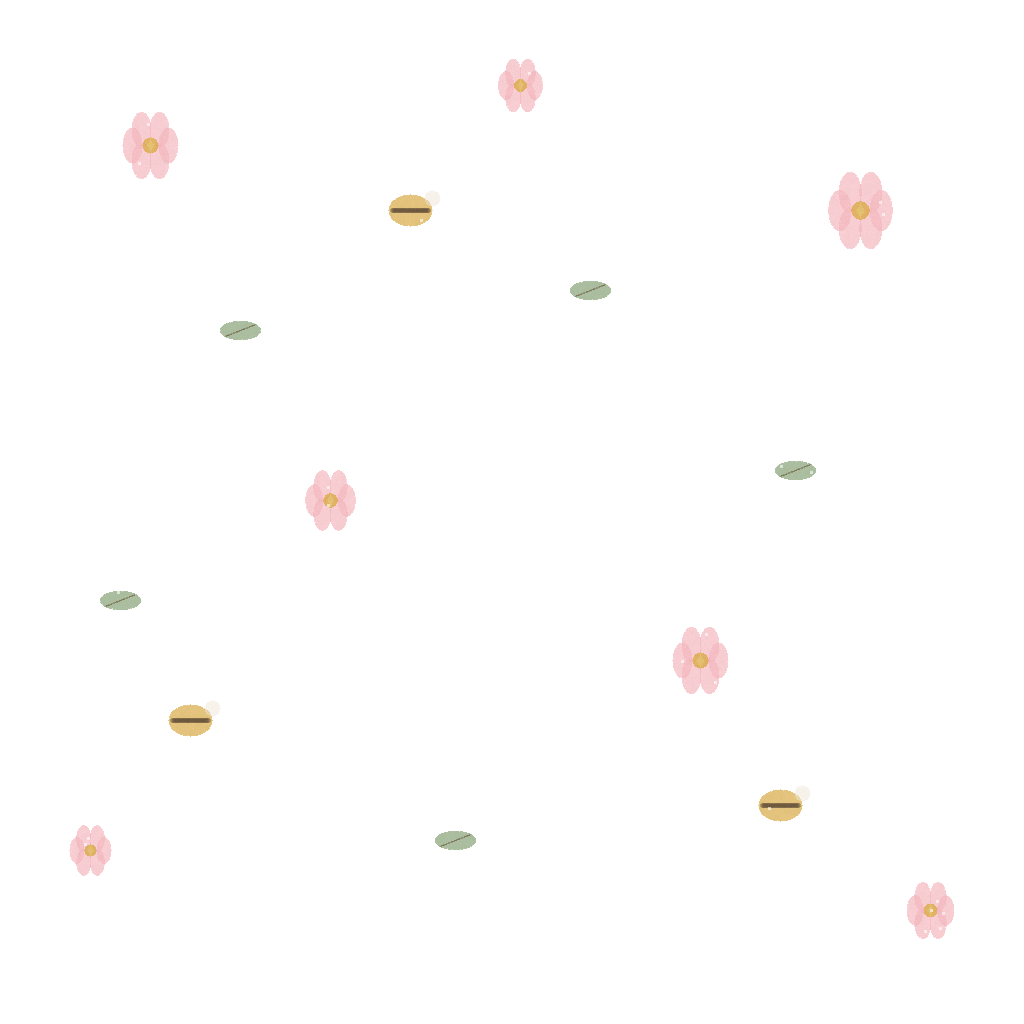
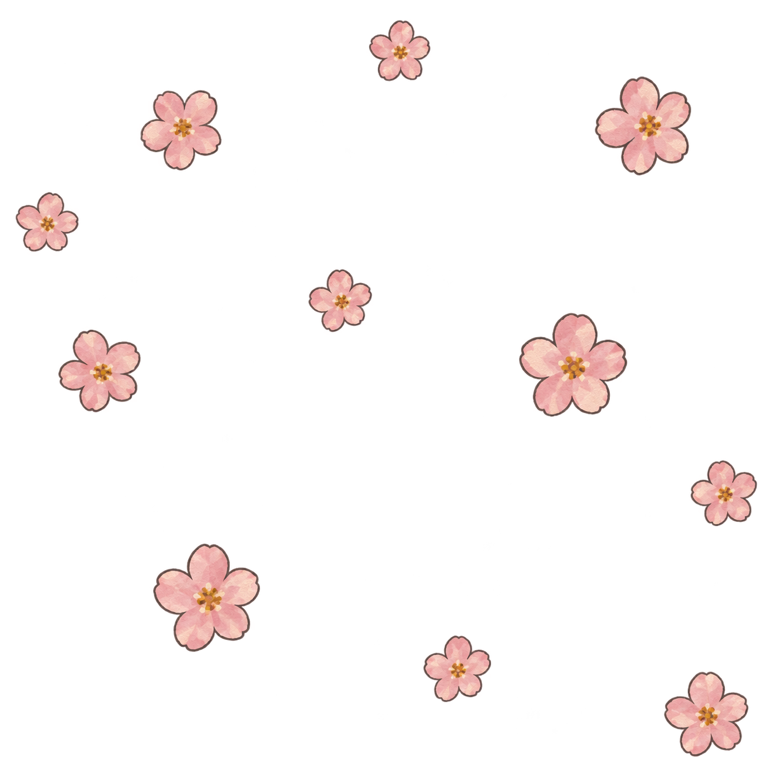
Refactor code structure for improved readability and maintainability

diff --git a/scripts/generate-owned-assets.js b/scripts/generate-owned-assets.js
@@ -895,7 +895,7 @@ function leafShape(png, x, y, scale, color) {
 }
 
 function pattern(file, draw) {
-  const png = canvas(1024, 1024);
+  const png = canvas(768, 768);
   draw(png);
   applyHandmadeTexture(png, {
     salt: file.length * 59,
@@ -907,68 +907,142 @@ function pattern(file, draw) {
   save(png, `assets/patterns/${file}.png`);
 }
 
+function patternPositions(width, height) {
+  return [
+    [-34, 82, 0.78, -0.2],
+    [154, 132, 1.05, 0.12],
+    [382, 58, 0.72, -0.36],
+    [624, 116, 0.95, 0.26],
+    [792, 210, 0.8, -0.14],
+    [76, 342, 0.9, 0.34],
+    [305, 292, 0.68, -0.18],
+    [540, 356, 1.12, 0.08],
+    [708, 470, 0.74, -0.32],
+    [184, 596, 1, 0.22],
+    [430, 650, 0.84, -0.26],
+    [688, 704, 0.9, 0.16],
+    [-18, 724, 0.76, 0.1],
+  ].map(([x, y, scale, tilt]) => [x % width, y % height, scale, tilt]);
+}
+
+function drawPatternSun(png, x, y, scale, tilt = 0) {
+  const rayColor = rgba('#E3A23F', 118);
+  const bodyColor = rgba('#F2C767', 128);
+  const shadeColor = rgba('#C98245', 68);
+  for (let i = 0; i < 10; i += 1) {
+    const a = (Math.PI * 2 * i) / 10 + tilt;
+    line(
+      png,
+      x + Math.cos(a) * 28 * scale,
+      y + Math.sin(a) * 28 * scale,
+      x + Math.cos(a) * 43 * scale,
+      y + Math.sin(a) * 43 * scale,
+      5 * scale,
+      rayColor,
+    );
+  }
+  circle(png, x, y, 25 * scale, bodyColor);
+  polygon(
+    png,
+    [
+      [x - 14 * scale, y - 18 * scale],
+      [x + 22 * scale, y - 10 * scale],
+      [x + 8 * scale, y + 20 * scale],
+      [x - 22 * scale, y + 12 * scale],
+    ],
+    shadeColor,
+  );
+}
+
+function drawPatternSnowflake(png, x, y, scale, tilt = 0) {
+  const snow = rgba('#C2D8E0', 132);
+  const cream = rgba('#FFF8E9', 90);
+  for (let i = 0; i < 6; i += 1) {
+    const a = (Math.PI * 2 * i) / 6 + tilt;
+    const x1 = x - Math.cos(a) * 30 * scale;
+    const y1 = y - Math.sin(a) * 30 * scale;
+    const x2 = x + Math.cos(a) * 30 * scale;
+    const y2 = y + Math.sin(a) * 30 * scale;
+    line(png, x1, y1, x2, y2, 3 * scale, snow);
+    line(
+      png,
+      x2,
+      y2,
+      x2 - Math.cos(a + 0.72) * 12 * scale,
+      y2 - Math.sin(a + 0.72) * 12 * scale,
+      2 * scale,
+      cream,
+    );
+  }
+  circle(png, x, y, 5 * scale, cream);
+}
+
+function drawPatternBlossom(png, x, y, scale, tilt = 0) {
+  const petal = rgba('#E7A7B4', 116);
+  const petalShade = rgba('#C98693', 58);
+  const center = rgba('#D1A044', 108);
+  for (let i = 0; i < 5; i += 1) {
+    const a = (Math.PI * 2 * i) / 5 + tilt;
+    ellipse(png, x + Math.cos(a) * 17 * scale, y + Math.sin(a) * 17 * scale, 11 * scale, 18 * scale, petal);
+    ellipse(png, x + Math.cos(a) * 18 * scale, y + Math.sin(a) * 18 * scale, 6 * scale, 12 * scale, petalShade);
+  }
+  circle(png, x, y, 8 * scale, center);
+}
+
+function drawPatternLeaf(png, x, y, scale, tilt = 0) {
+  const leaf = rgba('#BD7445', 126);
+  const shade = rgba('#8F5E3F', 62);
+  const stem = rgba('#62452F', 92);
+  ellipse(png, x, y, 34 * scale, 17 * scale, leaf);
+  ellipse(png, x + Math.cos(tilt) * 6 * scale, y + Math.sin(tilt) * 6 * scale, 22 * scale, 11 * scale, shade);
+  line(png, x - 26 * scale, y + 12 * scale, x + 28 * scale, y - 13 * scale, 3 * scale, stem);
+}
+
+function drawPatternStar(png, x, y, scale, tilt = 0) {
+  const star = rgba('#D6A447', 128);
+  const shade = rgba('#9B6E3F', 70);
+  const points = [];
+  for (let i = 0; i < 10; i += 1) {
+    const radius = (i % 2 === 0 ? 34 : 15) * scale;
+    const a = -Math.PI / 2 + (Math.PI * 2 * i) / 10 + tilt;
+    points.push([x + Math.cos(a) * radius, y + Math.sin(a) * radius]);
+  }
+  polygon(png, points, star);
+  polygon(
+    png,
+    [
+      [x, y - 30 * scale],
+      [x + 8 * scale, y - 4 * scale],
+      [x + 28 * scale, y - 2 * scale],
+      [x + 10 * scale, y + 8 * scale],
+      [x + 15 * scale, y + 28 * scale],
+      [x, y + 12 * scale],
+    ],
+    shade,
+  );
+}
+
+function drawSingleMotifPattern(png, drawMotif) {
+  patternPositions(png.width, png.height).forEach(([x, y, scale, tilt], index) => {
+    drawMotif(png, x, y, scale, tilt + index * 0.05);
+  });
+}
+
 function generatePatternBackgrounds() {
   pattern('pattern-spring', (png) => {
-    const flowers = [[150, 145, 1], [520, 85, 0.8], [860, 210, 1.15], [330, 500, 0.9], [700, 660, 1], [90, 850, 0.75], [930, 910, 0.85]];
-    flowers.forEach(([x, y, s]) => petalFlower(png, x, y, s, '#F3B7BE', '#D9A83D'));
-    [[240, 330], [590, 290], [795, 470], [455, 840], [120, 600]].forEach(([x, y]) => leafShape(png, x, y, 0.8, '#7E9B6D'));
-    [[410, 210], [780, 805], [190, 720]].forEach(([x, y]) => {
-      ellipse(png, x, y, 22, 16, rgba('#D6A63E', 175));
-      line(png, x - 18, y, x + 18, y, 5, rgba('#5E4B35', 90));
-      circle(png, x + 22, y - 12, 8, rgba('#EEE5D6', 130));
-    });
+    drawSingleMotifPattern(png, drawPatternBlossom);
   });
   pattern('pattern-summer', (png) => {
-    [[120, 180], [700, 140], [520, 760], [910, 620]].forEach(([x, y]) => {
-      circle(png, x, y, 38, rgba('#F7BF43', 165));
-      for (let i = 0; i < 8; i += 1) {
-        const a = (Math.PI * 2 * i) / 8;
-        line(png, x + Math.cos(a) * 52, y + Math.sin(a) * 52, x + Math.cos(a) * 72, y + Math.sin(a) * 72, 5, rgba('#E49A35', 130));
-      }
-    });
-    [[300, 360], [820, 355], [245, 880], [660, 520]].forEach(([x, y]) => {
-      line(png, x - 55, y, x + 55, y, 11, rgba('#3198AE', 125));
-      line(png, x - 45, y + 24, x + 65, y + 24, 11, rgba('#69C5D0', 125));
-    });
-    [[505, 220], [120, 565], [900, 900]].forEach(([x, y]) => {
-      polygon(png, [[x - 18, y + 12], [x + 18, y + 12], [x, y + 70]], rgba('#C9955A', 165));
-      circle(png, x - 16, y, 20, rgba('#F2A2AD', 170));
-      circle(png, x + 16, y, 20, rgba('#F7D56C', 170));
-      circle(png, x, y - 20, 20, rgba('#8DC7A7', 170));
-    });
+    drawSingleMotifPattern(png, drawPatternSun);
   });
   pattern('pattern-autumn', (png) => {
-    [[120, 170], [520, 135], [860, 260], [310, 630], [720, 780], [90, 900], [945, 930]].forEach(([x, y], i) => {
-      ellipse(png, x, y, 36, 20, rgba(i % 2 ? '#C98035' : '#A95E37', 165));
-      line(png, x - 24, y + 12, x + 24, y - 12, 4, rgba('#5C442D', 105));
-    });
-    [[350, 330], [780, 530], [210, 785]].forEach(([x, y]) => {
-      circle(png, x - 24, y, 32, rgba('#C66D35', 155));
-      circle(png, x + 24, y, 32, rgba('#D47B38', 155));
-      rect(png, x - 6, y - 54, 12, 34, rgba('#60462B', 145));
-    });
-    [[625, 320], [440, 900], [910, 120]].forEach(([x, y]) => {
-      circle(png, x, y, 20, rgba('#9B6E3E', 160));
-      polygon(png, [[x - 20, y - 8], [x, y - 34], [x + 20, y - 8]], rgba('#5D4A34', 140));
-    });
+    drawSingleMotifPattern(png, drawPatternLeaf);
   });
   pattern('pattern-winter', (png) => {
-    [[160, 170], [530, 120], [840, 290], [270, 600], [690, 750], [100, 895], [940, 910]].forEach(([x, y]) => {
-      for (let i = 0; i < 6; i += 1) {
-        const a = (Math.PI * 2 * i) / 6;
-        line(png, x - Math.cos(a) * 36, y - Math.sin(a) * 36, x + Math.cos(a) * 36, y + Math.sin(a) * 36, 4, rgba('#B9D6E3', 145));
-      }
-      circle(png, x, y, 6, rgba('#DDEDF2', 175));
-    });
-    [[365, 350], [835, 575], [410, 850]].forEach(([x, y]) => {
-      rect(png, x - 44, y - 20, 88, 62, rgba('#8B614B', 150));
-      rect(png, x - 30, y - 8, 60, 38, rgba('#E88945', 150));
-      polygon(png, [[x - 54, y - 20], [x, y - 58], [x + 54, y - 20]], rgba('#5B4539', 160));
-    });
-    [[705, 240], [155, 455], [610, 560]].forEach(([x, y]) => {
-      line(png, x - 54, y, x + 54, y, 14, rgba('#B76565', 145));
-      line(png, x - 30, y + 24, x + 42, y + 24, 14, rgba('#E7D2B3', 135));
-    });
+    drawSingleMotifPattern(png, drawPatternSnowflake);
+  });
+  pattern('pattern-star', (png) => {
+    drawSingleMotifPattern(png, drawPatternStar);
   });
 }
 
@@ -1104,8 +1178,20 @@ function generateAppIdentityAssets() {
   save(splash, 'assets/splash-placeholder.png');
 }
 
-generateJournalBackgrounds();
-generateStickers();
-generatePatternBackgrounds();
-generateDiaryPaperBackgrounds();
-generateAppIdentityAssets();
+const selectedTargets = new Set(process.argv.slice(2));
+
+if (selectedTargets.size === 0 || selectedTargets.has('journal-backgrounds')) {
+  generateJournalBackgrounds();
+}
+if (selectedTargets.size === 0 || selectedTargets.has('stickers')) {
+  generateStickers();
+}
+if (selectedTargets.size === 0 || selectedTargets.has('patterns')) {
+  generatePatternBackgrounds();
+}
+if (selectedTargets.size === 0 || selectedTargets.has('diary-paper')) {
+  generateDiaryPaperBackgrounds();
+}
+if (selectedTargets.size === 0 || selectedTargets.has('app-identity')) {
+  generateAppIdentityAssets();
+}

diff --git a/src/localization/i18n.ts b/src/localization/i18n.ts
@@ -295,6 +295,7 @@ const translations = {
     settingsBackgroundThemeSummer: 'Summer',
     settingsBackgroundThemeAutumn: 'Autumn',
     settingsBackgroundThemeWinter: 'Winter',
+    settingsBackgroundThemeStar: 'Star',
     settingsDisplayA11y: 'Display settings',
     settingsFontsModalTitle: 'Fonts',
     settingsFontsA11y: 'Font settings',
@@ -851,6 +852,7 @@ const translations = {
     settingsBackgroundThemeSummer: '夏',
     settingsBackgroundThemeAutumn: '秋',
     settingsBackgroundThemeWinter: '冬',
+    settingsBackgroundThemeStar: '星',
     settingsDisplayA11y: '表示設定',
     settingsFontsModalTitle: 'フォント',
     settingsFontsA11y: 'フォント設定',
@@ -1407,6 +1409,7 @@ const translations = {
     settingsBackgroundThemeSummer: '夏季',
     settingsBackgroundThemeAutumn: '秋季',
     settingsBackgroundThemeWinter: '冬季',
+    settingsBackgroundThemeStar: '星星',
     settingsDisplayA11y: '显示设置',
     settingsFontsModalTitle: '字体',
     settingsFontsA11y: '字体设置',
@@ -1963,6 +1966,7 @@ const translations = {
     settingsBackgroundThemeSummer: 'Sommer',
     settingsBackgroundThemeAutumn: 'Herbst',
     settingsBackgroundThemeWinter: 'Winter',
+    settingsBackgroundThemeStar: 'Sterne',
     settingsDisplayA11y: 'Anzeigeeinstellungen',
     settingsFontsModalTitle: 'Schriften',
     settingsFontsA11y: 'Schrifteinstellungen',
@@ -2519,6 +2523,7 @@ const translations = {
     settingsBackgroundThemeSummer: 'Été',
     settingsBackgroundThemeAutumn: 'Automne',
     settingsBackgroundThemeWinter: 'Hiver',
+    settingsBackgroundThemeStar: 'Étoiles',
     settingsDisplayA11y: 'Réglages d’affichage',
     settingsFontsModalTitle: 'Polices',
     settingsFontsA11y: 'Réglages des polices',

diff --git a/src/shared/components/PatternBackground.tsx b/src/shared/components/PatternBackground.tsx
@@ -40,6 +40,7 @@ const PATTERN_IMAGE_SOURCES: Record<PatternImageVariant, ImageSourcePropType> = 
   summer: require('../../../assets/patterns/pattern-summer.png'),
   autumn: require('../../../assets/patterns/pattern-autumn.png'),
   winter: require('../../../assets/patterns/pattern-winter.png'),
+  star: require('../../../assets/patterns/pattern-star.png'),
 };
 
 function patternOpacity(isDark: boolean): number {

diff --git a/app/onboarding.tsx b/app/onboarding.tsx
@@ -71,6 +71,7 @@ function patternBackgroundLabelKey(variant: PatternBackgroundVariant): Translati
   if (variant === 'summer') return 'settingsBackgroundThemeSummer';
   if (variant === 'autumn') return 'settingsBackgroundThemeAutumn';
   if (variant === 'winter') return 'settingsBackgroundThemeWinter';
+  if (variant === 'star') return 'settingsBackgroundThemeStar';
   return 'settingsBackgroundThemeSpring';
 }
 

diff --git a/app/(tabs)/settings.tsx b/app/(tabs)/settings.tsx
@@ -62,6 +62,7 @@ function patternBackgroundLabelKey(variant: PatternBackgroundVariant) {
   if (variant === 'summer') return 'settingsBackgroundThemeSummer';
   if (variant === 'autumn') return 'settingsBackgroundThemeAutumn';
   if (variant === 'winter') return 'settingsBackgroundThemeWinter';
+  if (variant === 'star') return 'settingsBackgroundThemeStar';
   return 'settingsBackgroundThemeSpring';
 }
 

diff --git a/src/theme/patternBackgrounds.ts b/src/theme/patternBackgrounds.ts
@@ -4,6 +4,7 @@ export const PATTERN_BACKGROUND_VARIANTS = [
   'summer',
   'autumn',
   'winter',
+  'star',
 ] as const;
 
 export type PatternBackgroundVariant = typeof PATTERN_BACKGROUND_VARIANTS[number];

diff --git a/src/shared/components/__tests__/PatternBackground.test.tsx b/src/shared/components/__tests__/PatternBackground.test.tsx
@@ -22,6 +22,7 @@ describe('PatternBackground', () => {
       'summer',
       'autumn',
       'winter',
+      'star',
     ]);
   });
 

diff --git a/assets/patterns/README.md b/assets/patterns/README.md
@@ -1,23 +1,27 @@
 # Pattern Background Assets
 
-These wallpaper tiles are project-authored raster assets generated by `scripts/generate-owned-assets.js`. The handmade texture uses subtle procedural grain, color jitter, alpha variation, and edge roughening created in the generator; no external texture files or image references are used.
+These wallpaper tiles are AI-generated raster assets created with the built-in image tool using project-owned spacing references from `scripts/generate-owned-assets.js patterns`. No third-party image references are used.
 
 ## Files
 
-- `pattern-spring.png` - simple blossoms, leaves, and small bee-like accent shapes.
-- `pattern-summer.png` - simple suns, waves, and ice cream shapes.
-- `pattern-autumn.png` - simple leaves, pumpkins, and acorn shapes.
-- `pattern-winter.png` - simple snowflakes, fireplace, and scarf shapes.
+- `pattern-spring.png` - sparse blossom-only pattern.
+- `pattern-summer.png` - sparse sun-only pattern.
+- `pattern-autumn.png` - sparse leaf-only pattern.
+- `pattern-winter.png` - sparse snowflake-only pattern.
+- `pattern-star.png` - sparse star-only pattern.
 
 ## Provenance
 
-- Source: `npm run generate:owned-assets`.
-- Generator: `scripts/generate-owned-assets.js`.
-- Inputs: no third-party images, stock references, AI image references, external textures, brand marks, text, copyrighted characters, people, or named artist style targets.
-- License intent: project-authored original assets for this app.
-- Attribution: none required by the project-authored generation process.
+- Source: built-in image generation tool.
+- Spacing reference: project-owned procedural tiles generated by `scripts/generate-owned-assets.js patterns`.
+- Inputs: no third-party images, stock references, external textures, brand marks, text, copyrighted characters, people, or named artist style targets.
+- Generated dimensions: `768x768`.
+- Intended display size: subtle full-screen decorative app background.
+- Motif rule: each tile uses one repeated motif type only.
+- License intent: original generated assets for this app.
+- Attribution: none expected from this generation path.
 - Release status: draft until human IP/design review is completed.
 
 ## Release Notes
 
-These are intentionally simple placeholder patterns. They are meant to reduce provenance risk while the final visual direction is unsettled. Final release patterns should either keep this deterministic generation path or use original human-designed references with source files recorded in `assets/ASSET_REGISTER.md`.
+These are draft generated patterns. They are meant to improve visual quality while the final visual direction is unsettled. Final release patterns should be checked for artifacts, confusing similarity, readability in light/dark themes, and seamless repeat behavior, with approval recorded in `assets/ASSET_REGISTER.md`.

diff --git a/assets/ASSET_REGISTER.md b/assets/ASSET_REGISTER.md
@@ -65,7 +65,7 @@ Review status: draft; human IP/design review required before release.
 | Android adaptive icon | `assets/android-icon-background.png`, `assets/android-icon-foreground.png`, `assets/android-icon-monochrome.png` | Temporary neutral journal mark; no text or brand name. |
 | Journal cover backgrounds | `assets/journal-backgrounds/*.png` | Twelve generic AI-generated wide diary covers regenerated with the built-in image tool using only project-owned reaction icons as internal art-direction references. No third-party image inputs, text, logos, people, characters, or branded products. Draft; human IP/design review required before release. |
 | Diary paper backgrounds | `assets/diary-paper/*.png` | Six subtle project-authored body canvas paper textures generated without third-party inputs, plus the in-app blank option. |
-| Seasonal pattern backgrounds | `assets/patterns/pattern-spring.png`, `assets/patterns/pattern-summer.png`, `assets/patterns/pattern-autumn.png`, `assets/patterns/pattern-winter.png` | Four transparent project-authored wallpaper tiles. See `assets/patterns/README.md`. |
+| Pattern backgrounds | `assets/patterns/pattern-spring.png`, `assets/patterns/pattern-summer.png`, `assets/patterns/pattern-autumn.png`, `assets/patterns/pattern-winter.png`, `assets/patterns/pattern-star.png` | Five transparent AI-generated wallpaper tiles regenerated 2026-09-05 with the built-in image tool using only project-owned procedural spacing references. No third-party image inputs, text, logos, people, characters, brand marks, or named artist/studio/franchise references. Each tile uses one repeated motif type only: blossom, sun, leaf, snowflake, or star. Generated dimensions: `768x768`. Intended display size: subtle full-screen decorative app background. Draft; human IP/design review required before release. See `assets/patterns/README.md`. |
 | Memory reaction icons | `assets/reactions/*.png` | Seven transparent PNG reaction icons: cherish, treasure, smile, heavy, tender, stormy, wonder. Regenerated 2026-09-05 with the built-in image tool using generic object prompts, soft low-poly journal art direction, no third-party image inputs, no named artist/studio/franchise references, no text, no logos, no people, and no branded marks. Generated dimensions: `256x256`. Intended display size: 24-42 px in reaction buttons and trays. Draft; human IP/design review required before release. |
 | Sticker pack: Cat | `assets/stickers/cat/*.png` | Three transparent PNG stickers: sleepy, curious, cozy. |
 | Sticker pack: School | `assets/stickers/school/*.png` | Three transparent PNG stickers: notebook, pencil, backpack. |
